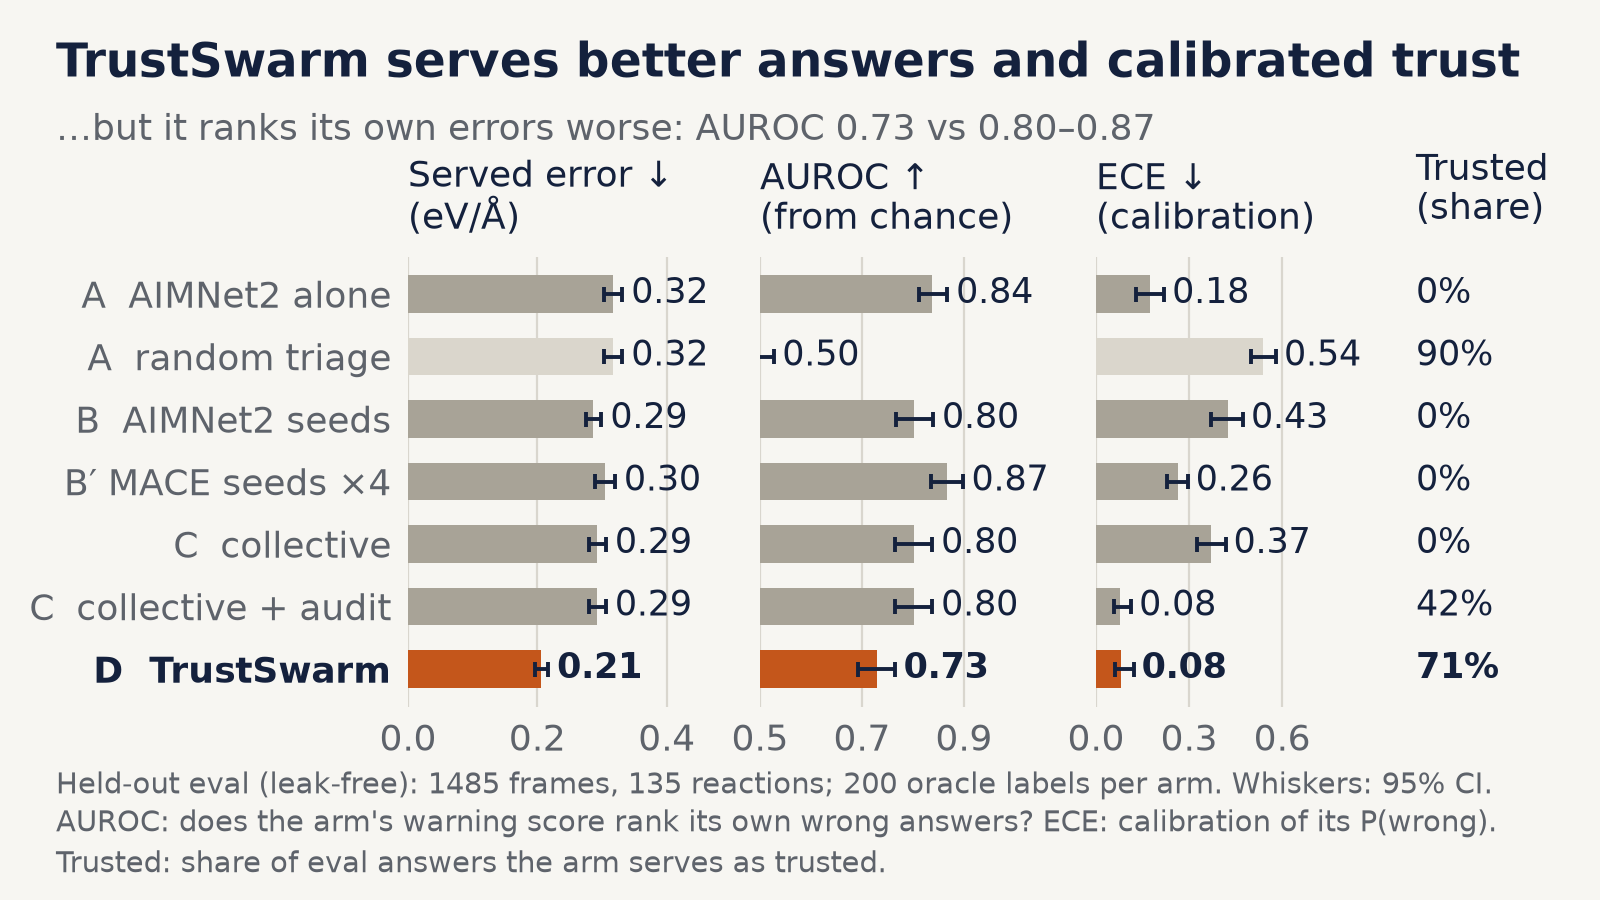
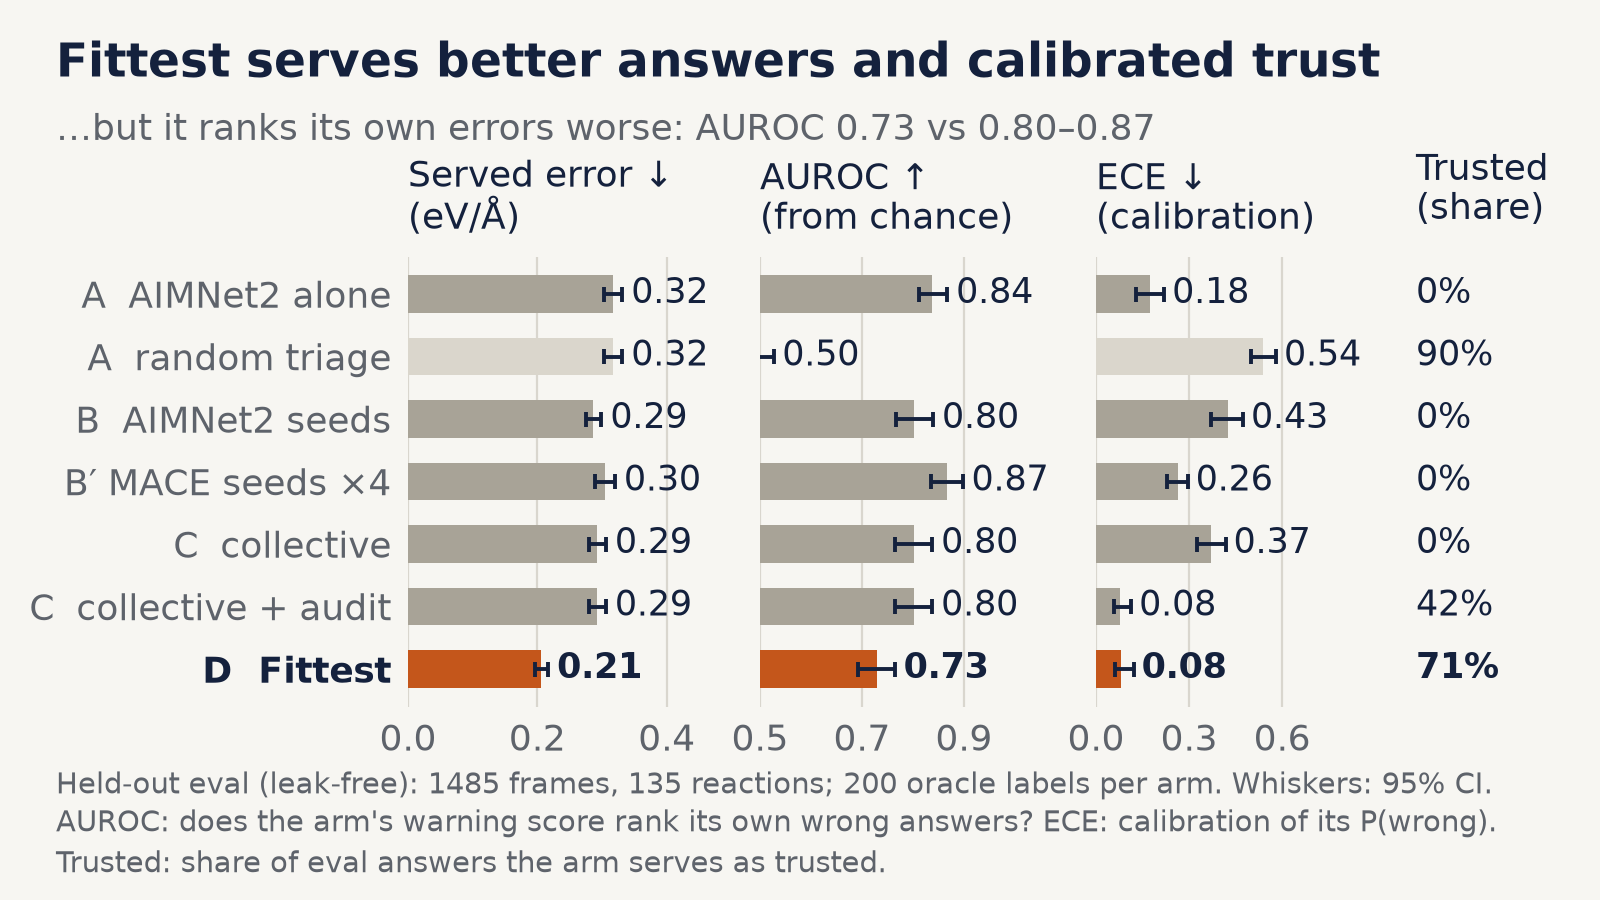
Regenerate RESULTS.md and fig5 under the Fittest name
write_results.py output is identical to the previous RESULTS.md apart
from the name (diffed after TrustSwarm -> Fittest substitution); no
number changed. make_figures.py: figs 1-4 and 6 are pixel-identical to
the committed ones and were left as is; fig5 differs only in the arm
label and headline; numbers.json only in labels.

Claude-Session: https://claude.ai/code/session_01V63WDzMjhy8eJH2rCxMjFw

Changed region(s): [[0.0312, 0.0311, 0.9688, 0.0933], [0.0625, 0.7156, 0.25, 0.7778]]

diff --git a/results/RESULTS.md b/results/RESULTS.md
@@ -1,14 +1,14 @@
-# TrustSwarm — results
+# Fittest — results
 
 <!-- SUMMARY:START -->
-**TrustSwarm on Transition1x** — leak-free split, 200 Transition1x label lookups per arm (40 per round × 5 rounds; no live DFT); B′ additionally uses MACE LoRA seeds fine-tuned on 160 of arm D's labels; 95% reaction-bootstrap CIs.
+**Fittest on Transition1x** — leak-free split, 200 Transition1x label lookups per arm (40 per round × 5 rounds; no live DFT); B′ additionally uses MACE LoRA seeds fine-tuned on 160 of arm D's labels; 95% reaction-bootstrap CIs.
 
-* **Better served answers, by discovery:** TrustSwarm's served force RMSE on held-out eval is **0.206 eV/Å** vs 0.286–0.317 for the baselines (wrong on 40% of eval frames vs 54%–73%). It served `mean(aimnet2+orb)` on 1373/1485 eval frames: the gain comes from discovering that combination from 200 oracle labels; no baseline had subset candidates. A fixed AIMNet2+Orb average chosen in hindsight (using eval labels) scores 0.202 eV/Å — as good.
+* **Better served answers, by discovery:** Fittest's served force RMSE on held-out eval is **0.206 eV/Å** vs 0.286–0.317 for the baselines (wrong on 40% of eval frames vs 54%–73%). It served `mean(aimnet2+orb)` on 1373/1485 eval frames: the gain comes from discovering that combination from 200 oracle labels; no baseline had subset candidates. A fixed AIMNet2+Orb average chosen in hindsight (using eval labels) scores 0.202 eV/Å — as good.
 * **Calibrated trust:** ECE 0.080, Brier 0.185; significantly better than A_single, A_random, B_seed, B_mace_seeds, C_collective; tied with C_audit — the gain comes from the Skeptic's random audits of trusted answers.
-* **Negative result — error ranking:** TrustSwarm's AUROC (eval 0.730) is significantly worse than A_single, B_seed, B_mace_seeds, C_collective, C_audit. Best ranker: B_mace_seeds (0.867).
+* **Negative result — error ranking:** Fittest's AUROC (eval 0.730) is significantly worse than A_single, B_seed, B_mace_seeds, C_collective, C_audit. Best ranker: B_mace_seeds (0.867).
 * **Committee disagreement detects AIMNet2's failures best:** AUROC vs 'AIMNet2 wrong' 0.917 (C_collective).
 * **Seed ensembles rank but do not measure:** B′ AUROC 0.867 (best); B ties C at 0.802; on all 3,157 test frames at 0.4 eV/Å the AIMNet2 seed spread beats the committee (0.905 vs 0.866) — but seed spreads are 2.4–36× smaller than the errors on the 1,485 eval frames: not usable as an error bar.
-* **Silent failures:** TrustSwarm has 0/96 on eval (badly wrong, F-RMSE > 0.4) and 1/115 on pool; not significantly different from 5 of 5 non-random baselines, 4 of which trust nothing (zero by construction).
+* **Silent failures:** Fittest has 0/96 on eval (badly wrong, F-RMSE > 0.4) and 1/115 on pool; not significantly different from 5 of 5 non-random baselines, 4 of which trust nothing (zero by construction).
 * **Planted failures:** 0.45 caught vs 0.33–0.70; significantly better than C_collective, not significant vs 5 of 6.
 * **Self-repair:** the Curator chose and LoRA-fine-tuned `mace_mpa0`; not shipped — forces 1.355 → 0.692 eV/Å but relative-energy MAE 0.314 → 0.364 eV on 26 held-out labels.
 * **Leakage controlled:** split by reactant- and product-linked components; 0 shared endpoint geometries (a per-reaction split had 732 near-duplicate pool/eval endpoints).
@@ -29,11 +29,11 @@ Generated by `scripts/write_results.py`. Primary wrongness: force RMSE > 0.25 eV
 | B_mace_seeds | 0.825 [0.79, 0.86] | 0.867 [0.84, 0.90] | 0.483 [0.43, 0.54] | 0.157 [0.12, 0.20] | 0.500 [0.33, 0.66] | 0.304 [0.29, 0.32] | 0.493 [0.45, 0.54] | 0.263 [0.23, 0.30] | 0.267 [0.23, 0.30] | 0.000 [0.00, 0.00] | 0.000 [0.00, 0.00] |
 | C_collective | 0.726 [0.68, 0.77] | 0.802 [0.77, 0.84] | 0.917 [0.89, 0.94] | 0.159 [0.11, 0.21] | 0.350 [0.19, 0.51] | 0.293 [0.28, 0.31] | 0.221 [0.20, 0.24] | 0.370 [0.33, 0.42] | 0.374 [0.33, 0.42] | 0.000 [0.00, 0.00] | 0.000 [0.00, 0.00] |
 | C_audit | 0.726 [0.68, 0.77] | 0.802 [0.77, 0.84] | 0.917 [0.89, 0.94] | 0.138 [0.10, 0.19] | 0.375 [0.22, 0.54] | 0.293 [0.28, 0.31] | 0.221 [0.20, 0.24] | 0.079 [0.06, 0.11] | 0.189 [0.17, 0.21] | 0.029 [0.00, 0.08] | 0.419 [0.36, 0.47] |
-| D_trustswarm | 0.659 [0.62, 0.70] | 0.730 [0.69, 0.76] | 0.738 [0.68, 0.79] | 0.186 [0.13, 0.25] | 0.450 [0.28, 0.62] | 0.206 [0.20, 0.22] | 0.151 [0.14, 0.17] | 0.080 [0.06, 0.12] | 0.185 [0.17, 0.21] | 0.000 [0.00, 0.00] | 0.708 [0.66, 0.75] |
+| D_fittest | 0.659 [0.62, 0.70] | 0.730 [0.69, 0.76] | 0.738 [0.68, 0.79] | 0.186 [0.13, 0.25] | 0.450 [0.28, 0.62] | 0.206 [0.20, 0.22] | 0.151 [0.14, 0.17] | 0.080 [0.06, 0.12] | 0.185 [0.17, 0.21] | 0.000 [0.00, 0.00] | 0.708 [0.66, 0.75] |
 
-Planted = planted-split frames where AIMNet2's force RMSE > 0.4 eV/Å (AIMNet2 is in every arm). Silent failures = badly wrong (F-RMSE > 0.4), unflagged, unchecked and trusted; read with the trusted share. An arm that trusts nothing has none by construction. TrustSwarm's zero is partly due to the Skeptic's advisory vetoes and the hook's flags, which keep would-be silent failures out of the trusted set.
+Planted = planted-split frames where AIMNet2's force RMSE > 0.4 eV/Å (AIMNet2 is in every arm). Silent failures = badly wrong (F-RMSE > 0.4), unflagged, unchecked and trusted; read with the trusted share. An arm that trusts nothing has none by construction. Fittest's zero is partly due to the Skeptic's advisory vetoes and the hook's flags, which keep would-be silent failures out of the trusted set.
 
-### TrustSwarm (D) vs each baseline (paired 95% CI)
+### Fittest (D) vs each baseline (paired 95% CI)
 
 `better` / `**worse**`: the CI of the difference excludes 0; `n.s.`: not significant.
 
@@ -48,9 +48,9 @@ Planted = planted-split frames where AIMNet2's force RMSE > 0.4 eV/Å (AIMNet2 i
 
 ### Served answer: discovery vs hindsight
 
-* TrustSwarm served `mean(aimnet2+orb)` on 1373/1485 eval frames: served force RMSE 0.206 eV/Å.
-* A fixed `mean(aimnet2+orb)` on every eval frame, chosen in hindsight with eval labels: 0.202 eV/Å. TrustSwarm's gain is the discovery of this combination from 200 oracle labels; no baseline arm had subset candidates.
-* Budget sweep: TrustSwarm's served eval force RMSE at k = 20: 0.202, 40: 0.206, 80: 0.204 eV/Å. The recommended-candidate distribution per budget is **not recorded** in `ablation_budget.json`, so whether it finds the pair with fewer labels is inferred only from the served error.
+* Fittest served `mean(aimnet2+orb)` on 1373/1485 eval frames: served force RMSE 0.206 eV/Å.
+* A fixed `mean(aimnet2+orb)` on every eval frame, chosen in hindsight with eval labels: 0.202 eV/Å. Fittest's gain is the discovery of this combination from 200 oracle labels; no baseline arm had subset candidates.
+* Budget sweep: Fittest's served eval force RMSE at k = 20: 0.202, 40: 0.206, 80: 0.204 eV/Å. The recommended-candidate distribution per budget is **not recorded** in `ablation_budget.json`, so whether it finds the pair with fewer labels is inferred only from the served error.
 
 ### Budget sweep (per-round budget k, same 5 rounds)
 
@@ -62,7 +62,7 @@ Planted = planted-split frames where AIMNet2's force RMSE > 0.4 eV/Å (AIMNet2 i
 | B_mace_seeds | 0.074 | 0.157 | 0.321 | 0.825 | 0.825 | 0.825 | 0.304 | 0.304 | 0.304 |
 | C_collective | 0.075 | 0.159 | 0.320 | 0.726 | 0.726 | 0.726 | 0.293 | 0.293 | 0.293 |
 | C_audit | 0.071 | 0.138 | 0.290 | 0.726 | 0.726 | 0.726 | 0.293 | 0.293 | 0.293 |
-| D_trustswarm | 0.088 | 0.186 | 0.378 | 0.569 | 0.659 | 0.653 | 0.202 | 0.206 | 0.204 |
+| D_fittest | 0.088 | 0.186 | 0.378 | 0.569 | 0.659 | 0.653 | 0.202 | 0.206 | 0.204 |
 
 ### Ensemble dispersion vs error (eval)
 
@@ -109,13 +109,13 @@ From `results/blackboard_armD.jsonl` (5921 events, arrays summarised). `predicti
 * Hold-out (26 labelled frames, never trained on): force RMSE 1.355 → 0.692 eV/Å; relative-energy MAE 0.314 → 0.364 eV.
   * `from_scratch_ratio` (alchemi): 1.404 <= 1.0 → **fail**
   * `alchemi_report_accepted` (alchemi): **fail**
-  * `holdout_force_rmse_not_worse` (trustswarm): 0.692 <= 1.355 → pass
-  * `holdout_rel_energy_mae_not_worse` (trustswarm): 0.364 <= 0.314 → **fail**
+  * `holdout_force_rmse_not_worse` (fittest): 0.692 <= 1.355 → pass
+  * `holdout_rel_energy_mae_not_worse` (fittest): 0.364 <= 0.314 → **fail**
 * Leak check, training labels vs eval geometries: passed — no labelled frame matched an eval geometry.
 * Leak check, hold-out vs training (component-disjoint): passed.
 * Our gate requires every check to pass; the fine-tune is **not shipped**.
 
-## TrustSwarm across versions
+## Fittest across versions
 
 | version | split | AUROC pool | AUROC eval | Recall@K | Planted* | Served F-RMSE eval | Served wrong rate eval | ECE | Brier | Trusted share |
 |---|---|---|---|---|---|---|---|---|---|---|
@@ -142,10 +142,10 @@ From `results/blackboard_armD.jsonl` (5921 events, arrays summarised). `predicti
 
 ## Failures and caveats (reported, not hidden)
 
-* D_trustswarm: fine-tune not shipped (acceptance verdict 'fail' != 'pass')
-* TrustSwarm's error ranking (AUROC eval) is significantly worse than: A_single, B_seed, B_mace_seeds, C_collective, C_audit.
+* D_fittest: fine-tune not shipped (acceptance verdict 'fail' != 'pass')
+* Fittest's error ranking (AUROC eval) is significantly worse than: A_single, B_seed, B_mace_seeds, C_collective, C_audit.
 * The Calibrator's threshold τ never left its floor (0.620): flags were set by the round-0 70th-percentile rule, not by learning.
 * Reputations ended nearly equal (0.86–0.89): reputation-weighted bidding behaved like plain summed bids.
-* TrustSwarm's served-answer gain equals a fixed AIMNet2+Orb average chosen in hindsight (0.202 eV/Å).
+* Fittest's served-answer gain equals a fixed AIMNet2+Orb average chosen in hindsight (0.202 eV/Å).
 * The Calibrator's labels are mostly bid-won (high σ); audits reduce but do not remove this selection bias.
 * The synthetic smoke test (`scripts/make_synthetic.py`) shows the pipeline runs; it is not evidence for any claim.
